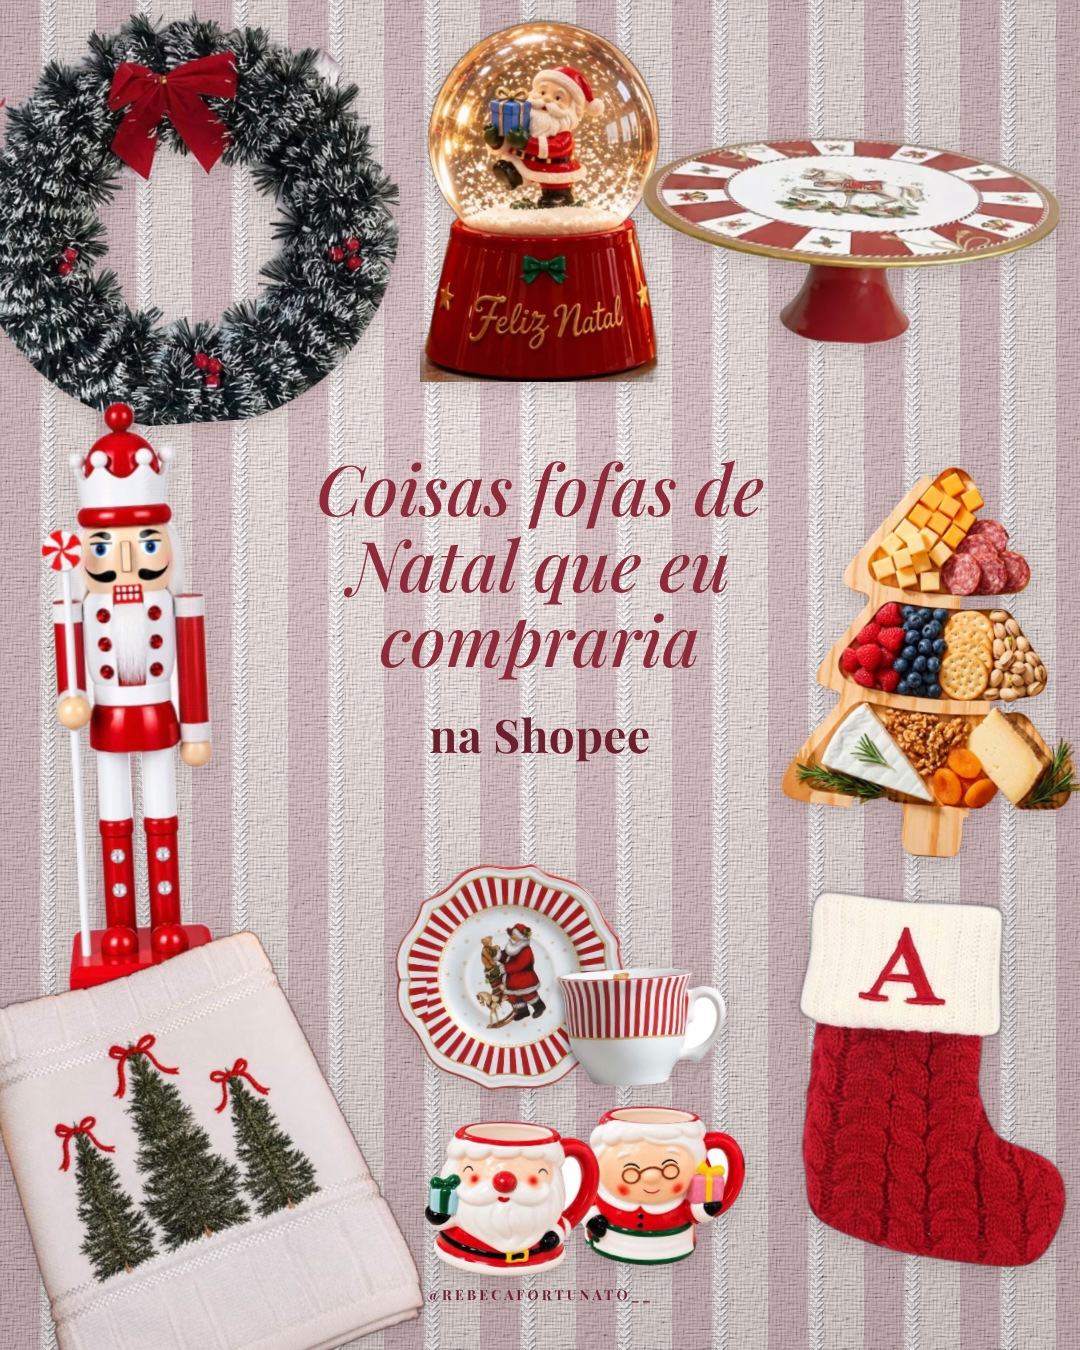
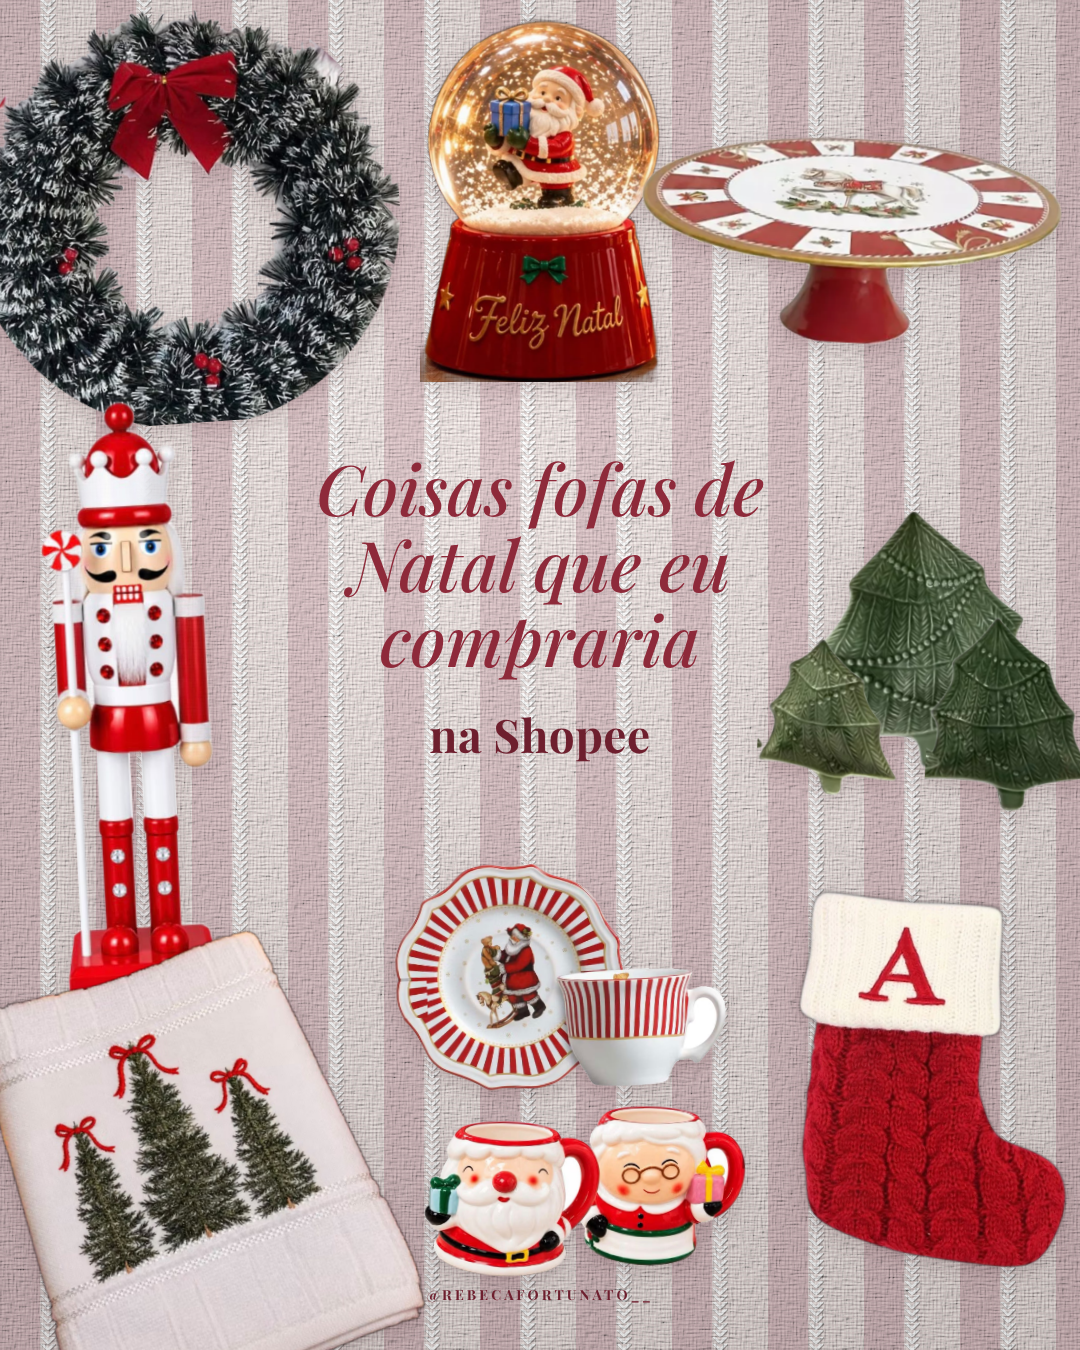
Achadinhos de Natal: pratinhos verdes de árvore no lugar da petisqueira
Claude-Session: https://claude.ai/code/session_01GVjzB1KzkYMHJxVq5zD7i2

Changed region(s): [[0.7028, 0.3422, 1.0, 0.6533]]

diff --git a/insta/achadinhos-natal.html b/insta/achadinhos-natal.html
@@ -40,7 +40,7 @@ body{margin:0;background:#333}
 <rect width="1080" height="1350" filter="url(#relevo1)" style="mix-blend-mode:multiply" opacity=".55"/>
 </svg><div class="luz"></div>
 
-<img class="prod" src="achadinhos/recortes/03-guirlanda.png" style="left:-30px;top:8px;width:430px;height:415px;transform:rotate(-4deg)"><img class="prod" src="achadinhos/recortes/08-globo.png" style="left:420px;top:18px;width:240px;height:364px;transform:rotate(0deg)"><img class="prod" src="achadinhos/recortes/06-boleira.png" style="left:640px;top:138px;width:420px;height:205px;transform:rotate(3deg)"><img class="prod" src="achadinhos/recortes/05-quebra-nozes.png" style="left:48px;top:400px;width:163px;height:600px;transform:rotate(-3deg)"><img class="prod" src="achadinhos/recortes/09-petisqueira.png" style="left:790px;top:466px;width:300px;height:391px;transform:rotate(4deg)"><img class="prod" src="achadinhos/recortes/07-xicara.png" style="left:395px;top:862px;width:330px;height:226px;transform:rotate(-2deg)"><img class="prod" src="achadinhos/recortes/04-toalha.png" style="left:-10px;top:936px;width:420px;height:458px;transform:rotate(-6deg)"><img class="prod" src="achadinhos/recortes/10-canecas.png" style="left:425px;top:1104px;width:320px;height:175px;transform:rotate(2deg)"><img class="prod" src="achadinhos/recortes/01-meia.png" style="left:792px;top:899px;width:285px;height:362px;transform:rotate(5deg)"><div class="titulo"><div class="s" style="color:#8E2A3A">Coisas fofas de Natal que eu compraria</div><div class="n" style="color:#6E1F2E">na Shopee</div></div>
+<img class="prod" src="achadinhos/recortes/03-guirlanda.png" style="left:-30px;top:8px;width:430px;height:415px;transform:rotate(-4deg)"><img class="prod" src="achadinhos/recortes/08-globo.png" style="left:420px;top:18px;width:240px;height:364px;transform:rotate(0deg)"><img class="prod" src="achadinhos/recortes/06-boleira.png" style="left:640px;top:138px;width:420px;height:205px;transform:rotate(3deg)"><img class="prod" src="achadinhos/recortes/05-quebra-nozes.png" style="left:48px;top:400px;width:163px;height:600px;transform:rotate(-3deg)"><img class="prod" src="achadinhos/recortes/09-pratos-arvore.png" style="left:762px;top:512px;width:335px;height:295px;transform:rotate(3deg)"><img class="prod" src="achadinhos/recortes/07-xicara.png" style="left:395px;top:862px;width:330px;height:226px;transform:rotate(-2deg)"><img class="prod" src="achadinhos/recortes/04-toalha.png" style="left:-10px;top:936px;width:420px;height:458px;transform:rotate(-6deg)"><img class="prod" src="achadinhos/recortes/10-canecas.png" style="left:425px;top:1104px;width:320px;height:175px;transform:rotate(2deg)"><img class="prod" src="achadinhos/recortes/01-meia.png" style="left:792px;top:899px;width:285px;height:362px;transform:rotate(5deg)"><div class="titulo"><div class="s" style="color:#8E2A3A">Coisas fofas de Natal que eu compraria</div><div class="n" style="color:#6E1F2E">na Shopee</div></div>
 <div class="at" style="color:#6E1F2E">@rebecafortunato__</div></div><div class="post" id="p2"><svg viewBox="0 0 1080 1350" width="1080" height="1350" style="position:absolute;inset:0">
 <defs>
   <pattern id="st2" width="96" height="7" patternUnits="userSpaceOnUse">
@@ -68,5 +68,5 @@ body{margin:0;background:#333}
 <rect width="1080" height="1350" filter="url(#relevo2)" style="mix-blend-mode:multiply" opacity=".55"/>
 </svg><div class="luz"></div>
 
-<img class="prod" src="achadinhos/recortes/03-guirlanda.png" style="left:-30px;top:8px;width:430px;height:415px;transform:rotate(-4deg)"><img class="prod" src="achadinhos/recortes/08-globo.png" style="left:420px;top:18px;width:240px;height:364px;transform:rotate(0deg)"><img class="prod" src="achadinhos/recortes/06-boleira.png" style="left:640px;top:138px;width:420px;height:205px;transform:rotate(3deg)"><img class="prod" src="achadinhos/recortes/05-quebra-nozes.png" style="left:48px;top:400px;width:163px;height:600px;transform:rotate(-3deg)"><img class="prod" src="achadinhos/recortes/09-petisqueira.png" style="left:790px;top:466px;width:300px;height:391px;transform:rotate(4deg)"><img class="prod" src="achadinhos/recortes/07-xicara.png" style="left:395px;top:862px;width:330px;height:226px;transform:rotate(-2deg)"><img class="prod" src="achadinhos/recortes/04-toalha.png" style="left:-10px;top:936px;width:420px;height:458px;transform:rotate(-6deg)"><img class="prod" src="achadinhos/recortes/10-canecas.png" style="left:425px;top:1104px;width:320px;height:175px;transform:rotate(2deg)"><img class="prod" src="achadinhos/recortes/01-meia.png" style="left:792px;top:899px;width:285px;height:362px;transform:rotate(5deg)"><div class="titulo" style="background:rgba(243,233,223,.94);padding:44px 30px;border-radius:18px;left:270px;right:270px;top:392px;box-shadow:0 6px 24px rgba(0,0,0,.18)"><div class="s" style="color:#3F1019">Coisas fofas de Natal que eu compraria</div><div class="n" style="color:#3F1019">na Shopee</div></div>
+<img class="prod" src="achadinhos/recortes/03-guirlanda.png" style="left:-30px;top:8px;width:430px;height:415px;transform:rotate(-4deg)"><img class="prod" src="achadinhos/recortes/08-globo.png" style="left:420px;top:18px;width:240px;height:364px;transform:rotate(0deg)"><img class="prod" src="achadinhos/recortes/06-boleira.png" style="left:640px;top:138px;width:420px;height:205px;transform:rotate(3deg)"><img class="prod" src="achadinhos/recortes/05-quebra-nozes.png" style="left:48px;top:400px;width:163px;height:600px;transform:rotate(-3deg)"><img class="prod" src="achadinhos/recortes/09-pratos-arvore.png" style="left:762px;top:512px;width:335px;height:295px;transform:rotate(3deg)"><img class="prod" src="achadinhos/recortes/07-xicara.png" style="left:395px;top:862px;width:330px;height:226px;transform:rotate(-2deg)"><img class="prod" src="achadinhos/recortes/04-toalha.png" style="left:-10px;top:936px;width:420px;height:458px;transform:rotate(-6deg)"><img class="prod" src="achadinhos/recortes/10-canecas.png" style="left:425px;top:1104px;width:320px;height:175px;transform:rotate(2deg)"><img class="prod" src="achadinhos/recortes/01-meia.png" style="left:792px;top:899px;width:285px;height:362px;transform:rotate(5deg)"><div class="titulo" style="background:rgba(243,233,223,.94);padding:44px 30px;border-radius:18px;left:270px;right:270px;top:392px;box-shadow:0 6px 24px rgba(0,0,0,.18)"><div class="s" style="color:#3F1019">Coisas fofas de Natal que eu compraria</div><div class="n" style="color:#3F1019">na Shopee</div></div>
 <div class="at" style="color:#3F1019;left:50%;right:auto;transform:translateX(-50%);background:rgba(243,233,223,.94);padding:6px 15px;border-radius:999px;bottom:40px">@rebecafortunato__</div></div></body></html>

diff --git a/insta/achadinhos-natal.py b/insta/achadinhos-natal.py
@@ -10,7 +10,7 @@ ITENS = [
     ("08-globo", 540, 200, 240, 0, False),
     ("06-boleira", 850, 240, 420, 3, False),
     ("05-quebra-nozes", 130, 700, None, -3, False),   # altura fixa, ver abaixo
-    ("09-petisqueira", 940, 662, 300, 4, False),
+    ("09-pratos-arvore", 930, 660, 335, 3, False),
     ("07-xicara", 560, 975, 330, -2, False),
     ("04-toalha", 200, 1165, 420, -6, False),
     ("10-canecas", 585, 1192, 320, 2, False),

diff --git a/insta/achadinhos/links.md b/insta/achadinhos/links.md
@@ -12,5 +12,6 @@ ID de afiliada da Rebeca na Shopee: an_18337811366 (todo link tem que levar esse
 | 6 | Boleira de Natal com pé vermelho e prato listrado | https://s.shopee.com.br/3VlWIVLESS | produtos/06-boleira-natal.jpg, produtos/06-boleira-natal-sozinha.webp (melhor pra recortar) |
 | 7 | Jogo de xícaras com pires listrados e Papai Noel | https://s.shopee.com.br/8Kqm3Trg3V | produtos/07-xicaras-papai-noel.jpg, produtos/07-xicara-fundo-branco.jpg (usada na arte) |
 | 8 | Globo de neve com Papai Noel, base vermelha Feliz Natal | https://s.shopee.com.br/4fxTh654F4 | produtos/08-globo-de-neve.jpg |
-| 9 | Petisqueira de madeira em formato de árvore de Natal | https://s.shopee.com.br/8pn2hsHBFg | produtos/09-petisqueira-arvore.jpg |
+| 9 | (saiu da arte) Petisqueira de madeira em formato de árvore de Natal | https://s.shopee.com.br/8pn2hsHBFg | produtos/09-petisqueira-arvore.jpg |
 | 10 | Canecas Papai Noel e Mamãe Noel | https://s.shopee.com.br/8VACIirq3O | produtos/10-canecas-noel.jpg |
+| 11 | Pratinhos de cerâmica verde em formato de árvore (jogo com 3) | https://s.shopee.com.br/BV4Orw5H1 | produtos/11-pratos-arvore-verdes.jpg |
